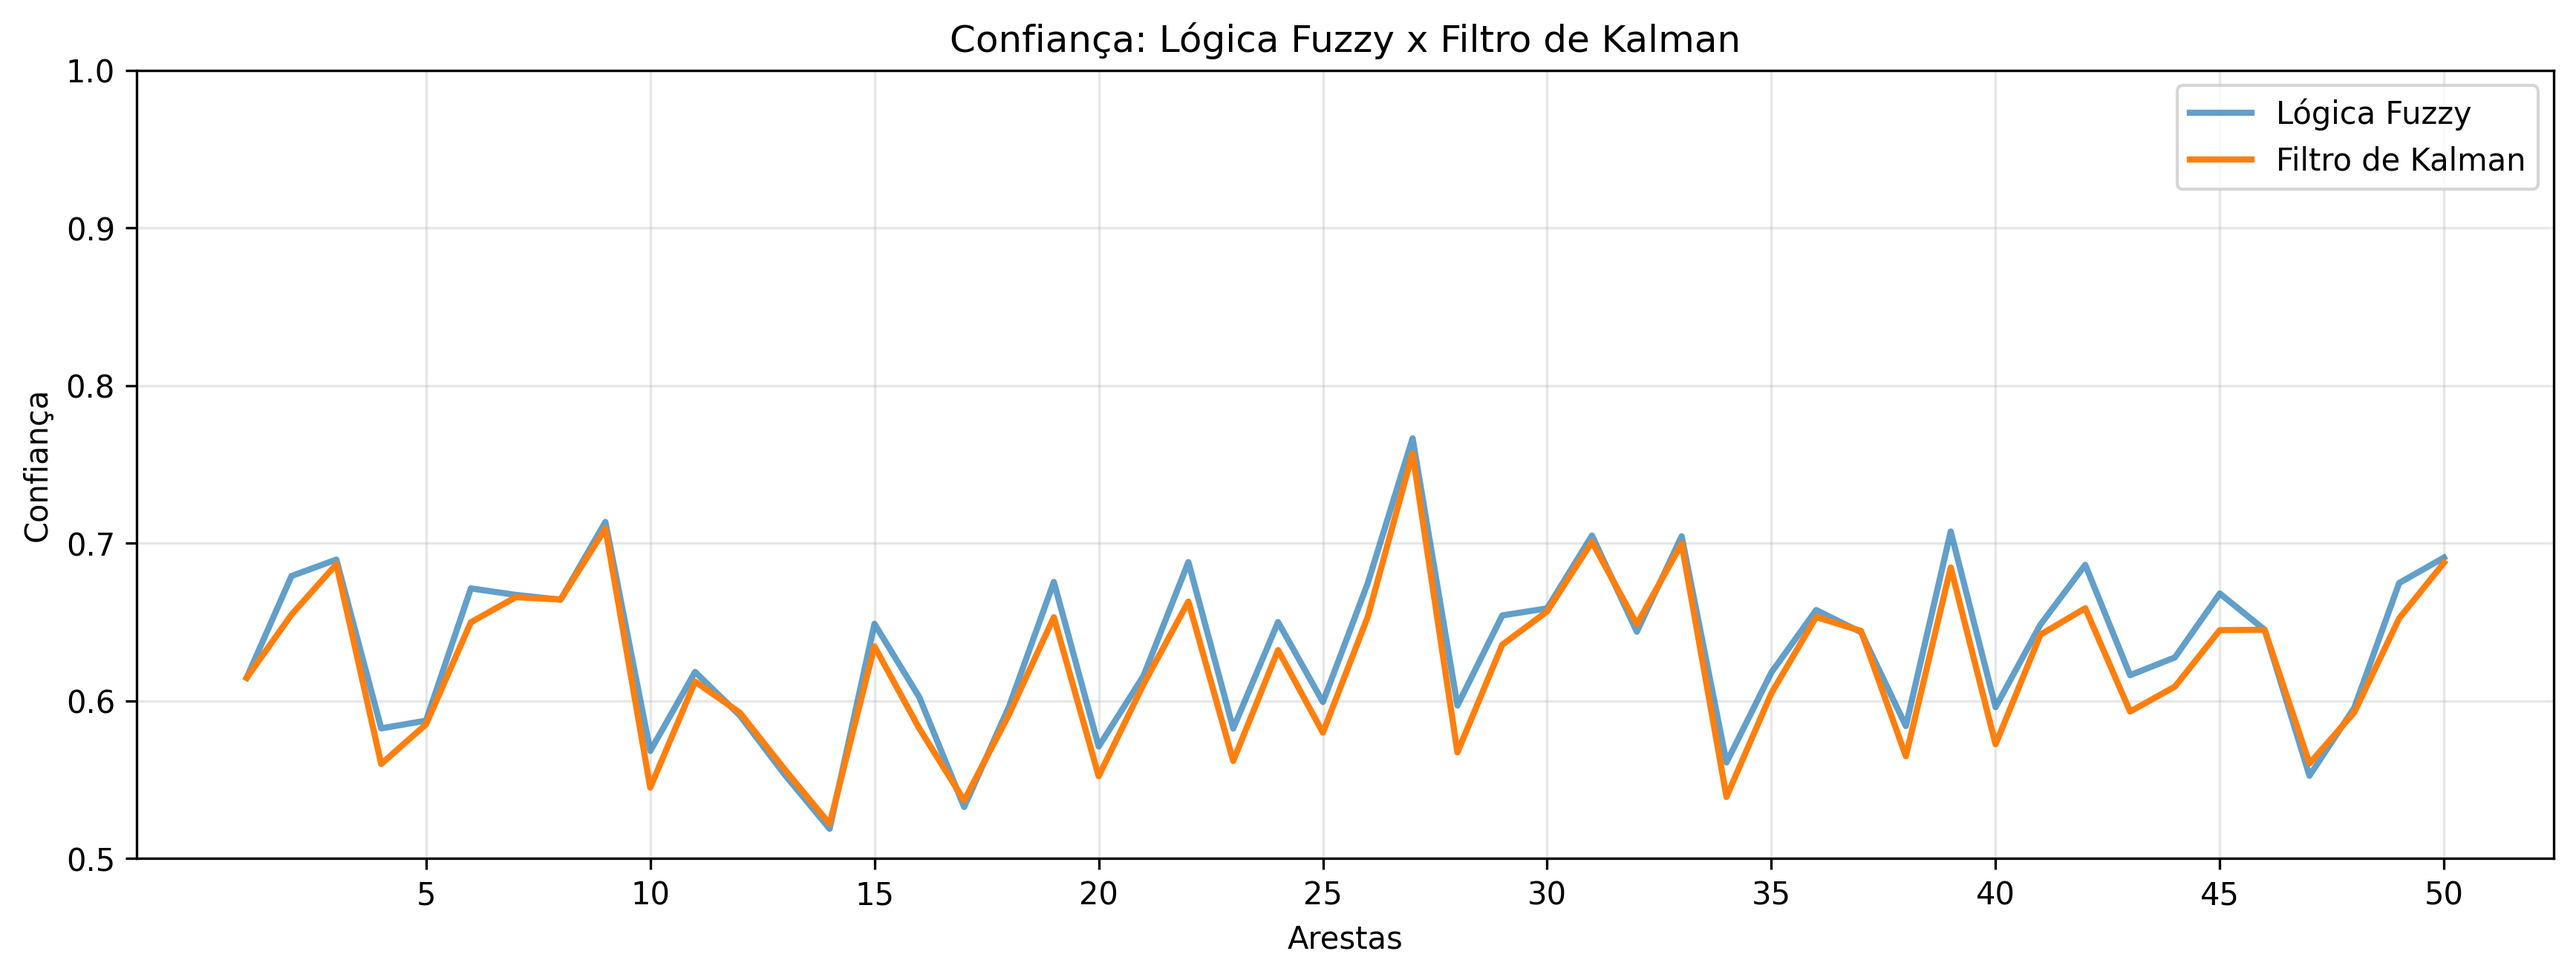
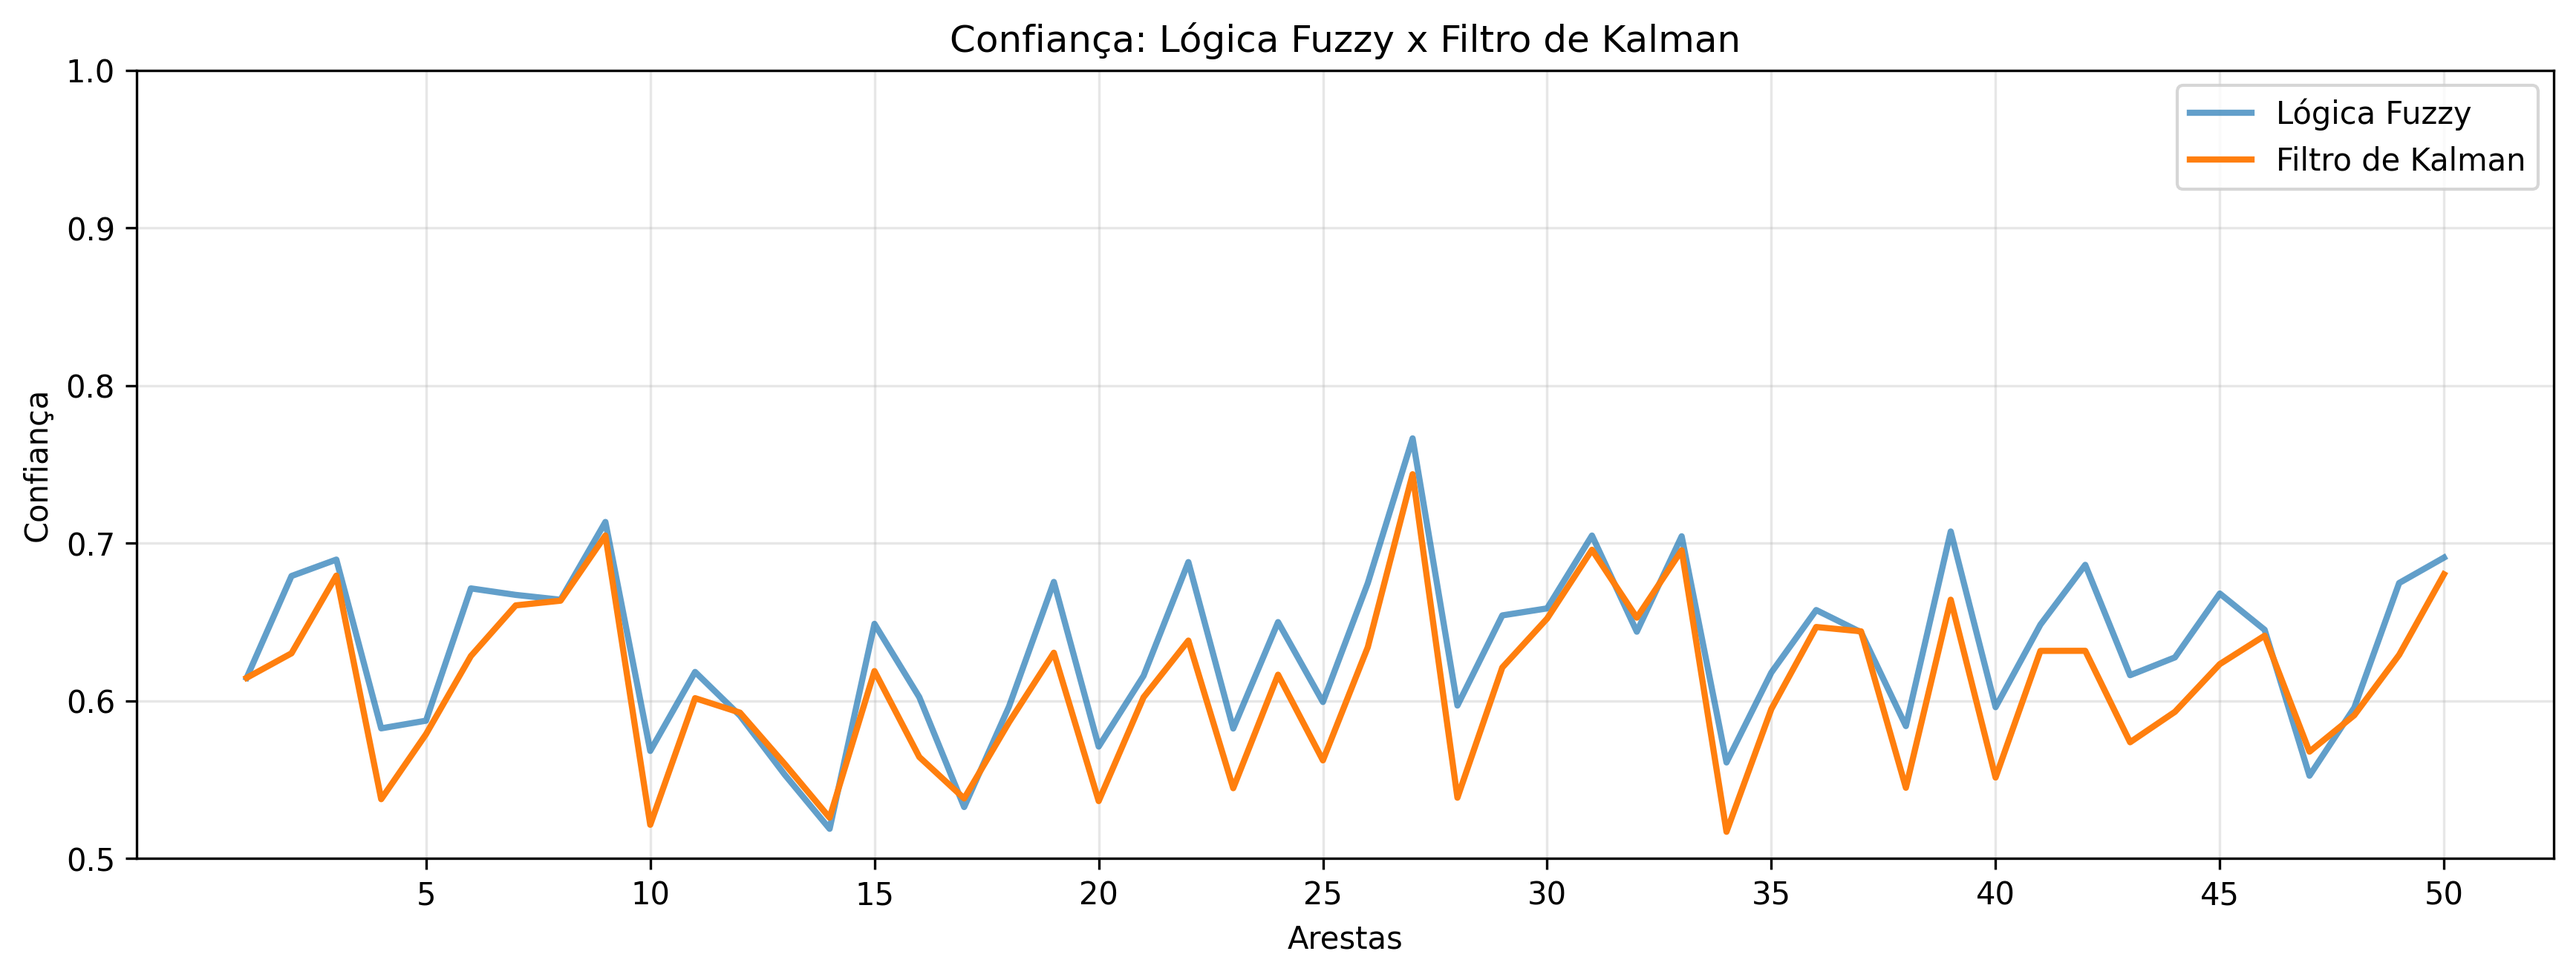
Alterando filter Q

diff --git a/README.md b/README.md
@@ -21,7 +21,7 @@ pip install pandas
 pip install numpy
 pip install torch
 pip install torch-geometric
-pip install pykalman
+pip install filterpy
 pip install scikit-learn
 pip install scikit-fuzzy
 pip install matplotlib
